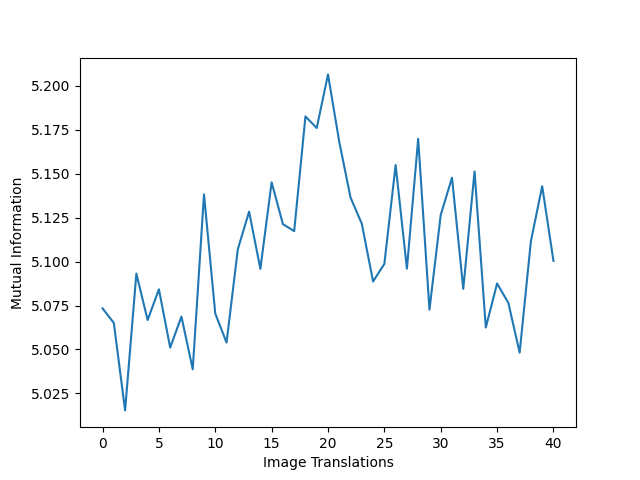
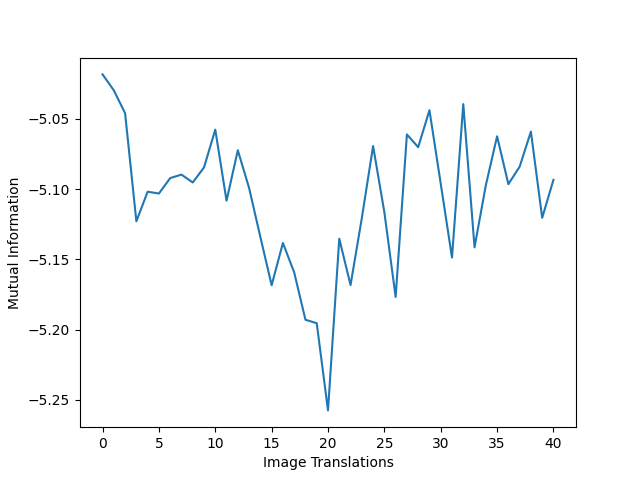
removed minus sign from calculateEntropy function

diff --git a/assignment-3/src/mutual-information.py b/assignment-3/src/mutual-information.py
@@ -10,7 +10,8 @@ from skimage import io
 def calculateEntropy(X):
     uniq = set(X)
     P = [np.mean(X == x) for x in uniq]
-    return sum(-p * np.log2(p) for p in P)
+    print(P)
+    return sum(p * np.log2(p) for p in P)
 
 
 ### main calculation step of mutual information
@@ -44,7 +45,6 @@ def binSizeChangeAlt(img):
     top, bottoms = reshapeImage(img)
     mis = {}
     binses = set([int(256/x) for x in range(1,256)])
-    print(binses)
     for binss in binses:
         hist = np.histogram2d(np.asarray(top).flatten(), np.asarray(bottoms[20]).flatten(), bins=binss)
         hist_img = Image.fromarray(hist[0], 'RGB')
